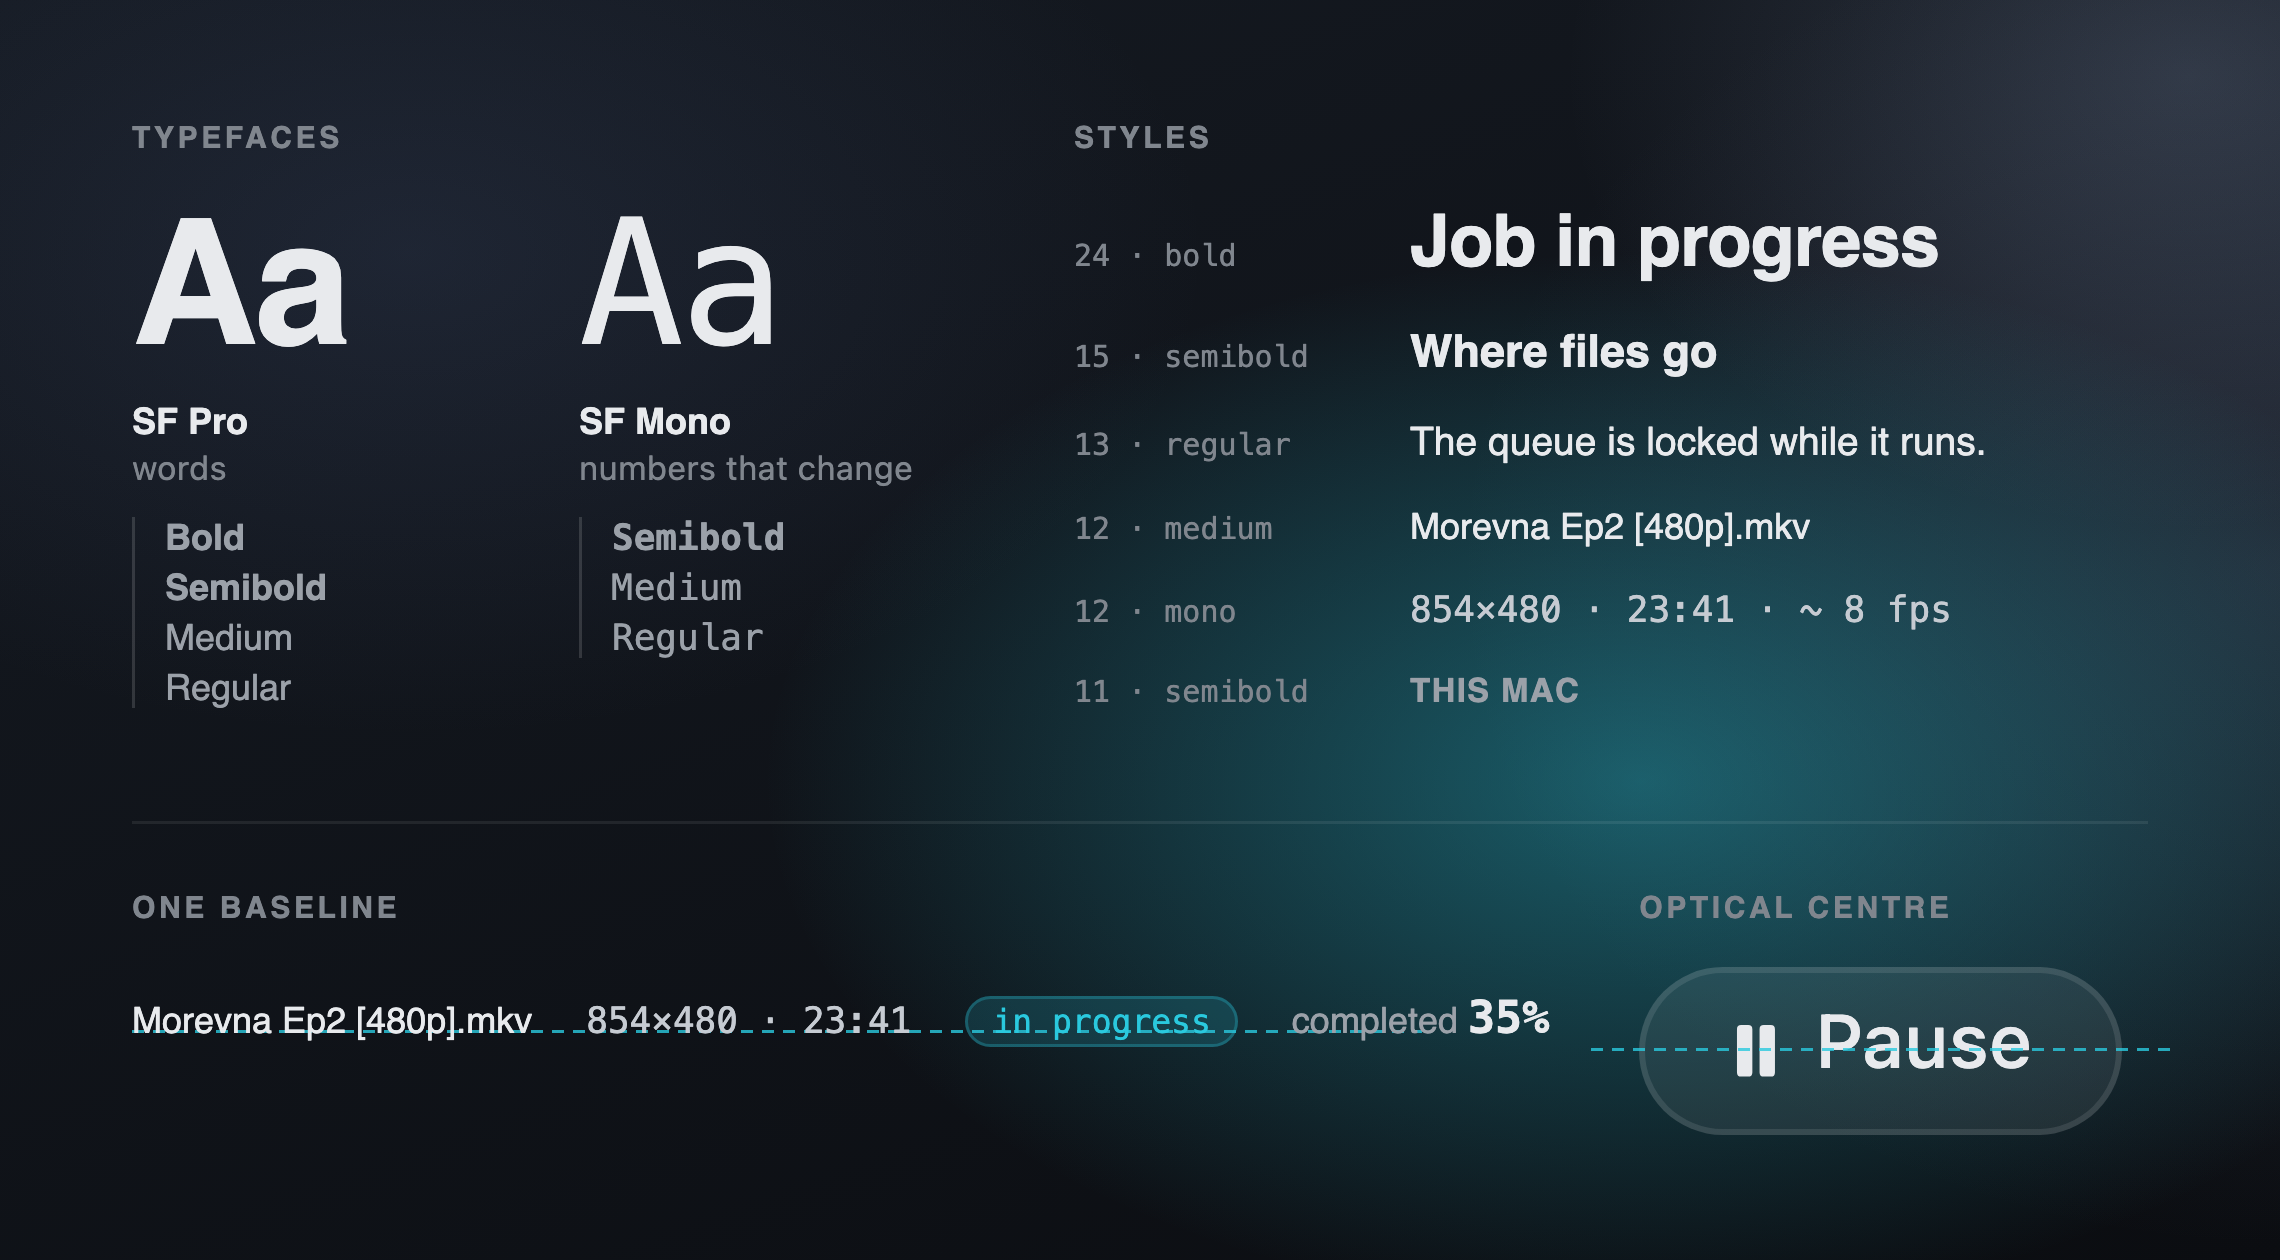
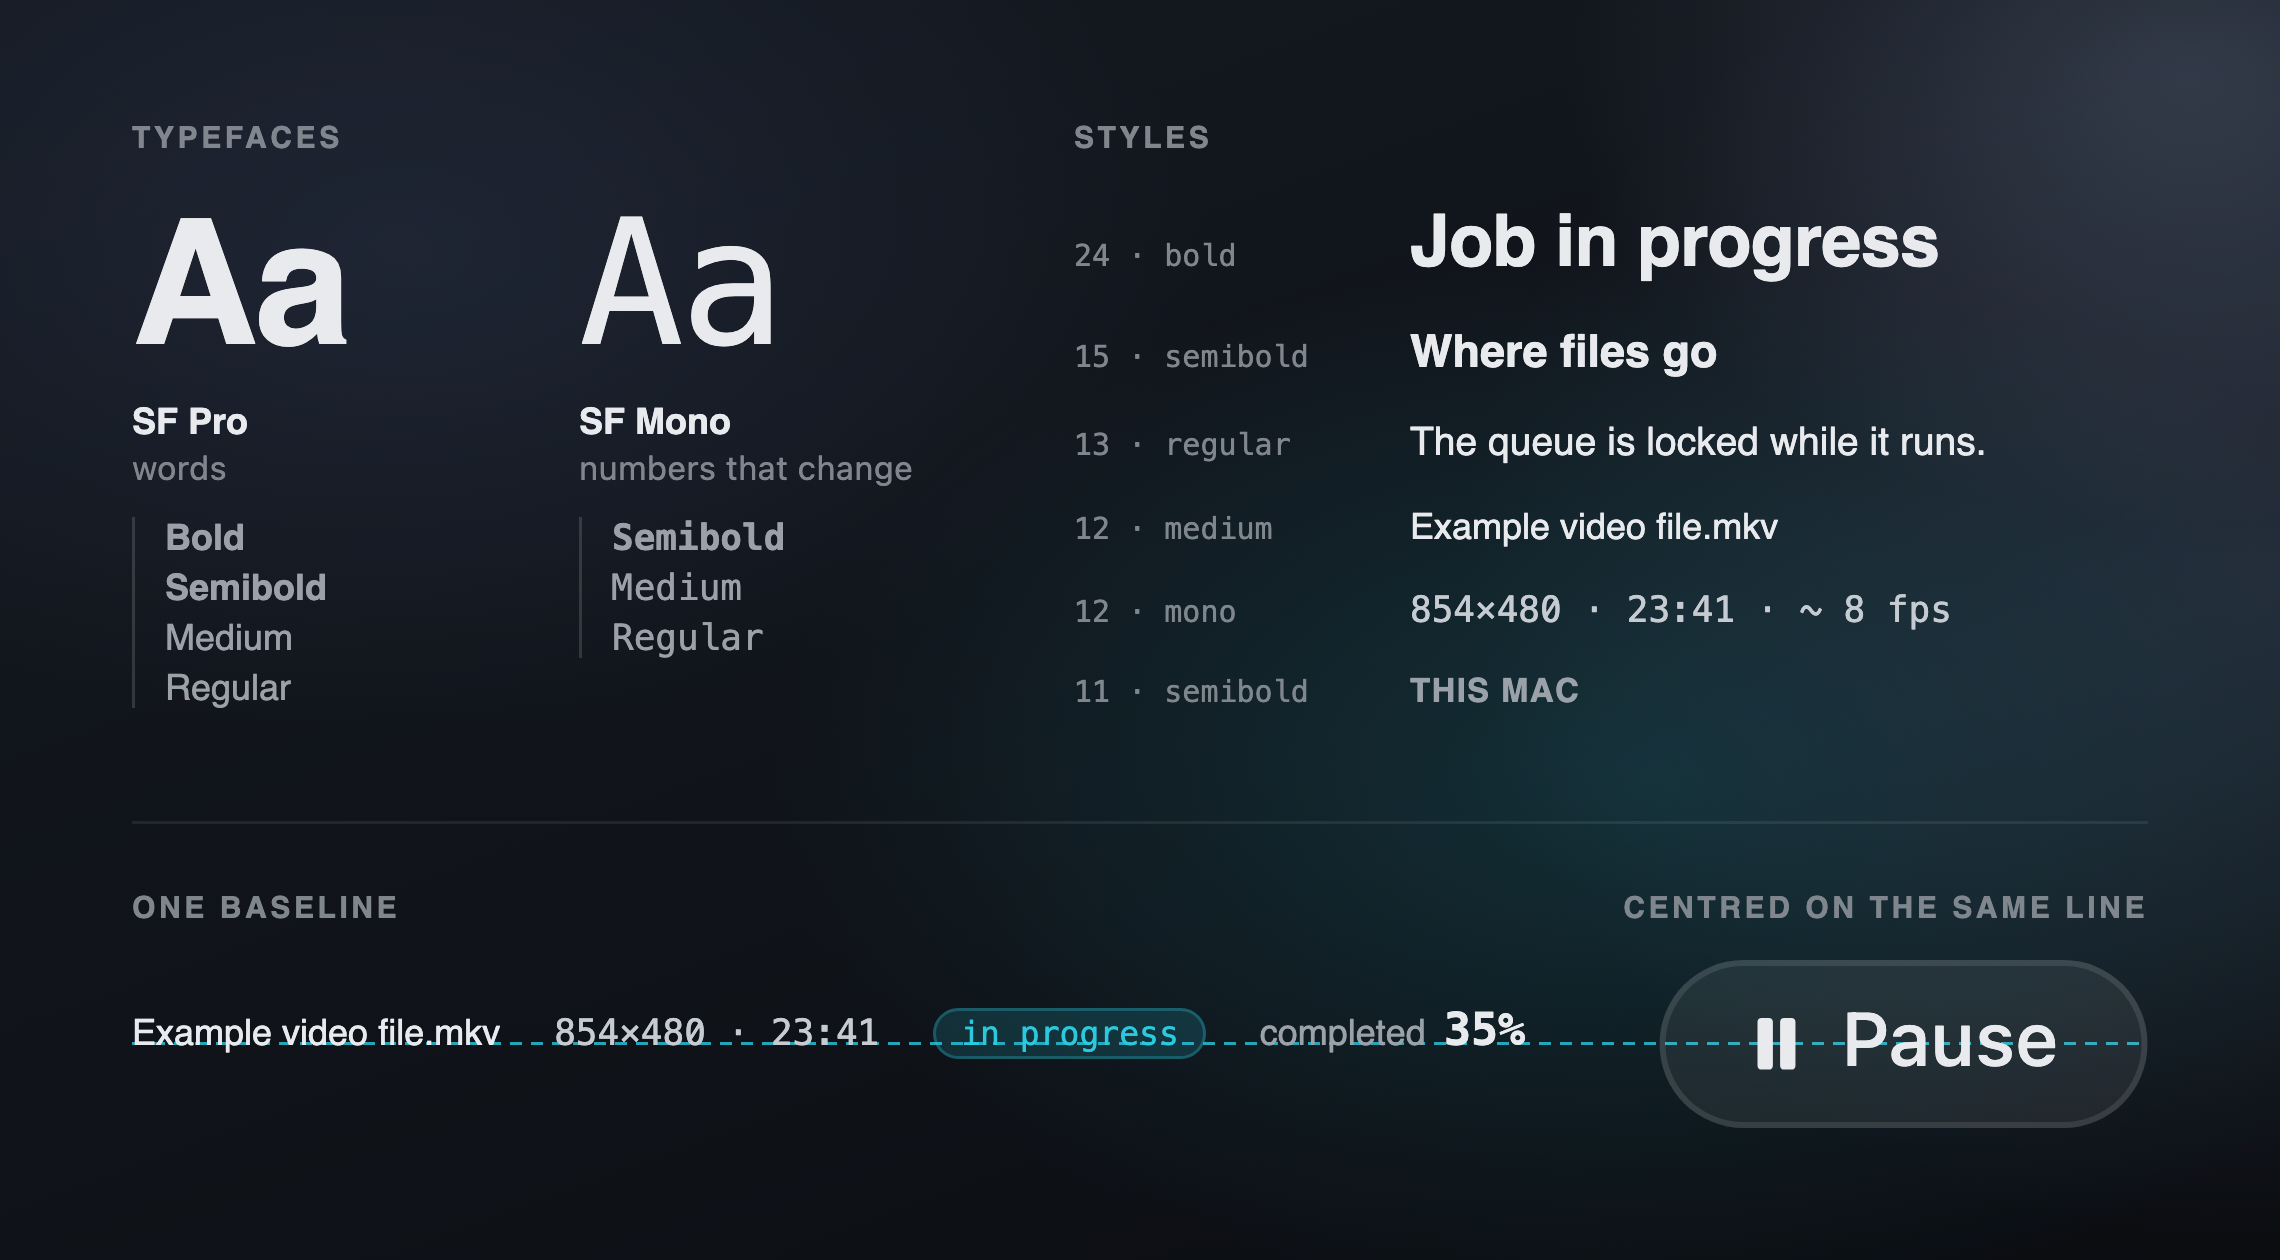
Design page Type: why SF Pro and SF Mono; text centred and on one baseline; the picture's two details on one line

Changed region(s): [[0.0623, 0.4024, 0.9654, 0.8976], [0.7785, 0.8976, 0.8719, 0.9286], [0.9031, 0.8667, 0.9342, 0.8976]]

diff --git a/docs/guide/deep-dives/design.md b/docs/guide/deep-dives/design.md
@@ -69,11 +69,12 @@ Colour is kept for meaning: one accent for what AnimeUp is doing, three status c
 
 AnimeUp uses the Mac's own type: SF Pro for text, SF Mono for every number that changes.
 
-![SF Pro and SF Mono with the weights in use; the scale of styles from page title to label; a Queue row whose words, numbers and chip share one baseline; a button whose label sits just above the capsule's middle](../img/v2/ds-type-dark.png){ .au }
+![SF Pro and SF Mono with the weights in use; the scale of styles from page title to label; a Queue row whose words, numbers and chip share one baseline, and a button centred on the same line](../img/v2/ds-type-dark.png){ .au }
 
+- **SF Pro, because it's the Mac's.** AnimeUp lives inside a frame macOS draws for it: menus, alerts, sheets, the Settings window. Any other face inside would show the seam. SF Pro is also built for screens: it changes cut and spacing with the size, so 11 pt labels stay open and 24 pt titles stay tight, it has every accent the app's languages need, and there's nothing to load.
+- **SF Mono, for numbers that change.** It's SF Pro's monospaced companion, drawn with the same proportions, so the two sit together without a jolt. Times, frames, sizes and speeds change while a job runs; with every digit the same width, a time left doesn't jitter as it counts down, and numbers in a column line up. It also tells data from words at a glance.
 - **Few styles, whole points.** Eight styles in all, aligned with the macOS text styles: 13 pt body, 15 pt section titles, 24 pt page titles, 11 pt labels. With few sizes the hierarchy reads at a glance, and whole points keep the text sharp.
-- **Numbers in SF Mono.** Times, frames, sizes and speeds change while a job runs. In a monospaced face every digit has the same width, so a time left doesn't jitter as it counts down, and numbers in a column line up.
-- **Words and numbers on one baseline.** In a row the file name, its numbers and the status chip sit on the same baseline, whatever their family and size. Button labels are raised 1 pt from the capsule's geometric centre: next to an icon, and inside a rounded shape, that is where the eye reads the middle.
+- **Centred, on one baseline.** Text is always centred in its container, and centred with the icon beside it. Words and numbers in different faces and sizes on the same line always share one baseline.
 - **Three text levels.** The main text, a secondary grey for what explains it, a tertiary grey for labels and details. Each grey was chosen for contrast first, and only then for hierarchy.
 
 **Contrast.** I measured every text colour against the backgrounds it sits on. In the dark theme the three levels reach 15.7, 7.3 and 5.1 to 1 on the window, and the coloured texts (cyan, green, yellow, red) between 7.9 and 12.3 to 1; in the light theme every text colour stays between 4.7 and 17.8 to 1. All of them meet the 4.5 to 1 that WCAG AA asks for normal text. One exception I know of: the white label on the cyan button of the light theme is at 3.3 to 1, enough only for large text, and it's on the list for the next version.
